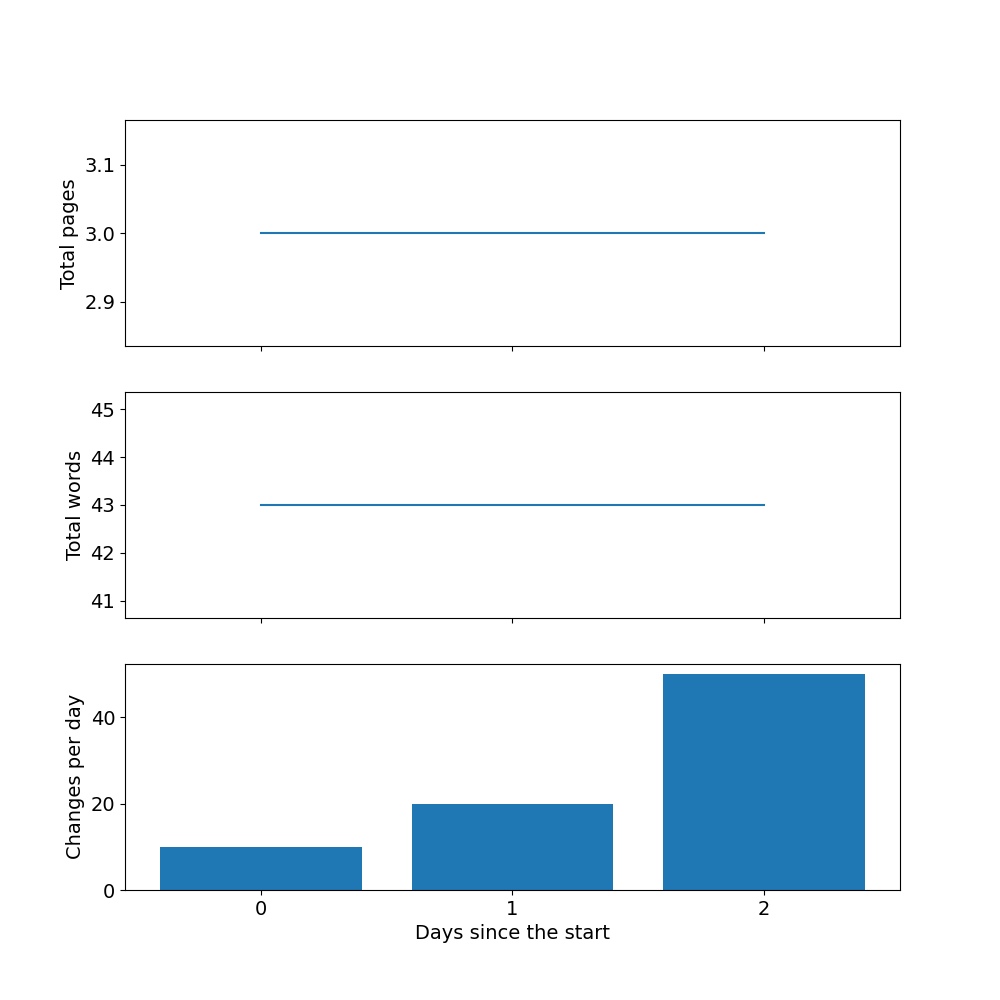
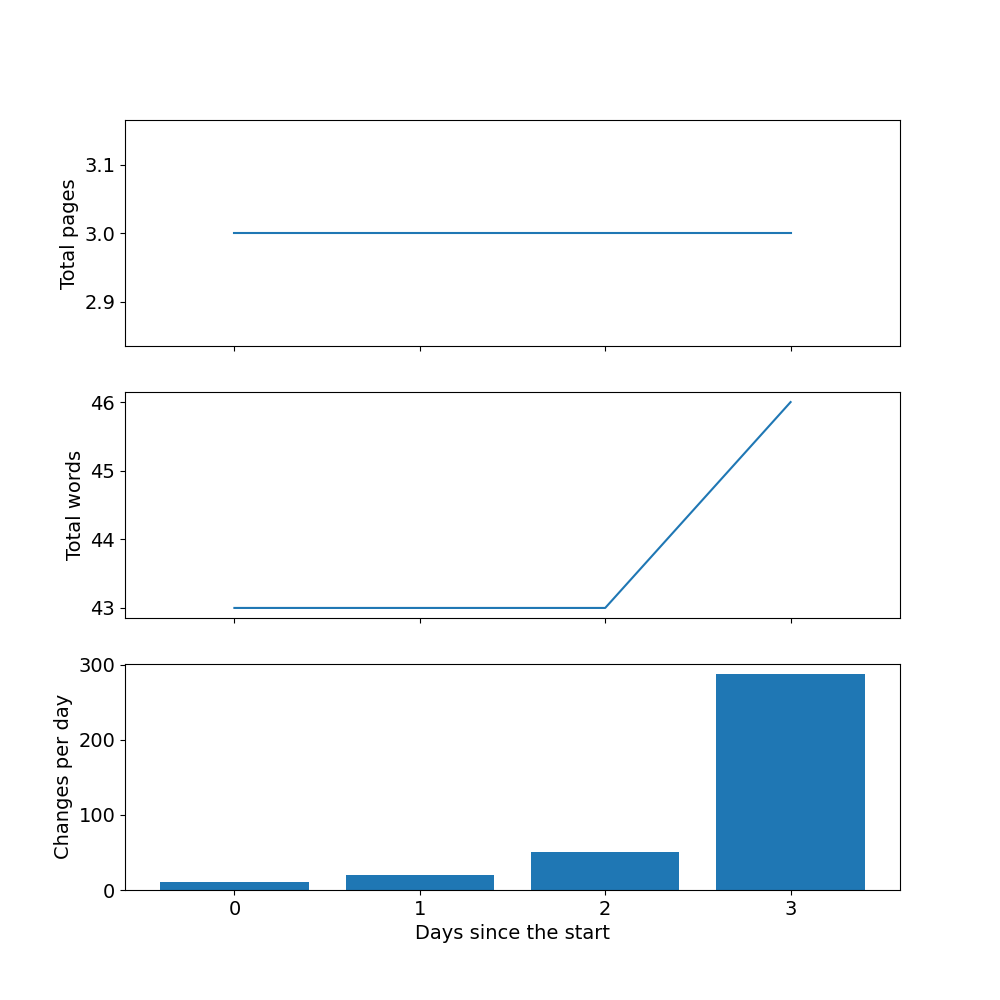
Added diff functionality

diff --git a/scripts/update_measures.py b/scripts/update_measures.py
@@ -12,14 +12,16 @@ def main():
     ###############################################################
     
     ############ Change these variables to the desired files ##########
-    table_path = "./table_test.csv"
+    table_path = "/home/rapha/Documents/Tutorials/LaTeX_Report_Measuring/scripts/table_test.csv"
     
-    image_path = './progress_plot.png'
+    image_path = '/home/rapha/Documents/Tutorials/LaTeX_Report_Measuring/scripts/progress_plot.png'
     
-    main_tex_folder = "../"
+    main_tex_folder = "/home/rapha/Documents/Tutorials/LaTeX_Report_Measuring/"
     main_tex_name = "main.tex"
     
-    main_pdf_path = "../main.pdf"
+    main_pdf_path = "/home/rapha/Documents/Tutorials/LaTeX_Report_Measuring/main.pdf"
+    
+    git_folder = "/home/rapha/Documents/Tutorials/LaTeX_Report_Measuring/"
     ###################################################################
     
     table_exists = exists(table_path)
@@ -35,20 +37,19 @@ def main():
     
     # Calculating the first column
     days_from_init = get_days(init_date)
-    print(days_from_init)
+    print(f"Today it has been {days_from_init} days since the start of the tracking.")
     
     # Calculating the second column
     words = get_words(main_tex_folder,main_tex_name)
-    print(words)
+    print(f"This commit has a total of {words} words.")
     
     # Calculating the third column
     pages = get_pages(main_pdf_path)
-    print(pages)
+    print(f"This commit has a total of {pages} pages.")
     
     # Calculating the fourth column
-    
-    #todo
-    diffs = 10
+    diffs = get_diffs(git_folder)
+    print(f"This commit has a total of {diffs} changes.")
     
     
     # Read the whole table
@@ -65,17 +66,29 @@ def main():
         # and should be an empty (to mimic the fact that it didn't find a match)
     	index_redo = np.array([])
     
-    # this is the new line that we are going to include
-    # you can customize it to match the header variable
-    newline = np.array([days_from_init,pages,words,diffs], dtype=str)
-    
+    # you have to change this part if you want to add new stuff    
     if index_redo.size == 0:
+        newline = np.array([days_from_init,pages,words,diffs], dtype=str)
         table = np.vstack([table, newline])
     else:
         # this col should not be overriden
         # but rather added to the previous
         old_diffs = table[index_redo.item(),3]
-        newline[3] = diffs + int(old_diffs)
+
+        old_diffs_invalid = False
+        try:
+            old_diffs = int(old_diffs)
+        except:
+            print("Old diffs was invalid number, assume zero")
+            old_diffs_invalid = True
+        finally:
+            if old_diffs_invalid:
+                old_diffs = "0"
+        
+        diff_sum = int(diffs) + int(old_diffs)
+        newline = np.array([days_from_init,pages,words,diff_sum], dtype=str)
+
+
         table[index_redo.item(),:] = newline
     
     # saving the new array
@@ -83,7 +96,13 @@ def main():
     
     
     plotting(table,image_path)
-
+    
+    print(f"Table written at:\n\t{table_path}")
+    print(f"Image written at:\n\t{image_path}")  
+    
+    return 0
+    
+######################## Helper functions ###########################    
 def get_days(date_init):
     cur_date = date.today()
     if cur_date < date_init:
@@ -112,8 +131,8 @@ def get_words(main_tex_folder,main_tex_name):
 
 def get_pages(main_pdf_path):
     
-    # texcount is found in the latex installation
-    # it will give a report of words with the sum
+    # pdfinfo is a poppler util
+    # it will give a metadata report of a pdf
     pdfinfo = ["pdfinfo", main_pdf_path]
     # I use awk to filter just the sum
     awk = ["awk", "/Pages:/ {print $NF}"]
@@ -127,6 +146,19 @@ def get_pages(main_pdf_path):
     return pages
 
 def get_diffs(git_folder):
+    # diff is a command from the git package
+    # it will tell you the additions and deletions of a set of files
+    # the --shortstat argument makes the report a single line
+    diff = ["git", "diff","--shortstat", git_folder]
+    # I use awk to filter just the sum:
+    # files changes + insertions + deletions
+    awk = ["awk", "{print $0+$4+$6}"]
+    
+    p = subprocess.Popen(diff, stdout=subprocess.PIPE)
+    output = subprocess.check_output(awk, stdin=p.stdout)
+    p.wait()
+
+    diffs = output.decode().rstrip()    
     return diffs
 
 def plotting(table, image_path):
@@ -162,7 +194,8 @@ def plotting(table, image_path):
 
 
 if __name__ == "__main__":
+    print("################### ~~ LaTeX Report Tracker ~~ ###################")
     main()
-    
+    print("################### ~~~~ End of execution ~~~~ ###################")
     
     

diff --git a/src/ch1.tex b/src/ch1.tex
@@ -12,4 +12,6 @@ This is a test of an introduction. Many interesting things are written.
 
 The figure works !! \cite{feynman2018space}
 
-This is another paragraph with some more words to see if I'm monitoring things correctly.
+This is another paragraph with some more words to see if I'm monitoring things correctly. New
+
+line

diff --git a/src/ch2.tex b/src/ch2.tex
@@ -1,4 +1,4 @@
 \chapter{Another chapter}
 \label{ch:another}
 
-This is definitely another chapter!
+This is for sure another chapter!
